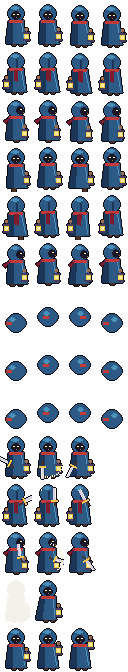
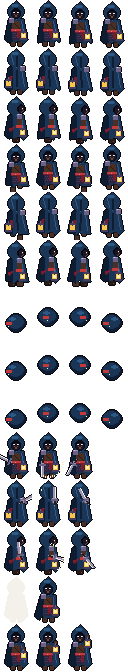
Shadowfall C2: Lanternbearer to the concept: side sheet (shoulder plate, lit face), top-down sheet redrawn (hood, torn cloak, mail, sash, steel pauldron, belt lantern), 128x160 portrait on the title and pause JOURNEY tab

diff --git a/shadowfall/art/src/make_hero.py b/shadowfall/art/src/make_hero.py
@@ -4,7 +4,7 @@ on the sword arm, a blood-red sash, muddy boots, and an iron-caged lantern on th
 screen; it swings). Side sheet 48x64 (caves, faces right) and top-down sheet 32x48 (the realm). Original art."""
 import math
 
-from sfart import Sheet, circle, ellipse, flash, line, outline, poly, poof, px, rect, surf
+from sfart import Sheet, circle, ellipse, flash, line, outline, poly, poof, px, rect, save_png, surf
 
 CLOAK = ("water0", "water1", "water2")  # shadow, base, light: deep midnight blue
 SASH = ("ember1", "ember2")
@@ -124,8 +124,9 @@ def side(bob=0, front=(3, 0), back=(-3, 0), sway=0, scarf=0, hand=(9, 38), lamp=
     ellipse(s, "ink1", cx + 3, hy + 8, 6, 8)
     px(s, "ink6", cx + 5, hy + 9)
     px(s, "ink7", cx + 6, hy + 9)
-    px(s, SKIN[0], cx + 7, hy + 12)
-    px(s, SKIN[0], cx + 6, hy + 14)
+    for fx, fy in ((6, 10), (7, 11), (6, 11), (7, 12), (6, 13), (5, 14)):
+        px(s, SKIN[0], cx + fx, hy + fy)
+    px(s, SKIN[1], cx + 7, hy + 10)
     px(s, CLOAK[2], cx - 2, hy + 15)                   # cloak clasp
     # the sword arm: steel pauldron, vambrace, gloved hand
     sh = (cx + 4, top + 6)
@@ -140,10 +141,14 @@ def side(bob=0, front=(3, 0), back=(-3, 0), sway=0, scarf=0, hand=(9, 38), lamp=
     line(s, STEEL[1], el, (hx, hy2), 4)
     line(s, STEEL[2], (el[0] + 1, el[1] - 1), (hx + 1, hy2 - 1))
     rect(s, LEATHER[1], hx - 1, hy2 - 1, 3, 3)
-    ellipse(s, STEEL[0], sh[0] - 4, sh[1] - 3, 8, 7)
-    ellipse(s, STEEL[1], sh[0] - 3, sh[1] - 3, 6, 4)
-    px(s, STEEL[2], sh[0] - 1, sh[1] - 2)
-    px(s, STEEL[2], sh[0], sh[1] - 2)
+    # pauldron: a flat curved shoulder plate capping the arm, two lames below
+    poly(s, STEEL[0], [(sh[0] - 4, sh[1] - 1), (sh[0] - 2, sh[1] - 4), (sh[0] + 2, sh[1] - 4), (sh[0] + 4, sh[1] - 2),
+                       (sh[0] + 4, sh[1] + 1), (sh[0] - 4, sh[1] + 1)])
+    line(s, STEEL[1], (sh[0] - 2, sh[1] - 3), (sh[0] + 2, sh[1] - 3))
+    line(s, STEEL[2], (sh[0] - 1, sh[1] - 3), (sh[0] + 1, sh[1] - 3))
+    line(s, STEEL[1], (sh[0] - 3, sh[1] - 1), (sh[0] + 3, sh[1] - 1))
+    line(s, STEEL[0], (sh[0] - 3, sh[1] + 2), (sh[0] + 3, sh[1] + 2))
+    px(s, STEEL[2], sh[0] + 3, sh[1] - 2)
     if lamp_hand:
         lantern(s, hx, hy2 + 1)
     if sword_ang is not None:
@@ -211,56 +216,91 @@ def lantern_only():
 def top(d, step=0, bob=0, sway=0, hand=0, sword_ang=None, arc=None, roll=None, lamp_up=0):
     s = surf(32, 48)
     cx = 16
-    if roll is not None:  # a tumbling cloak ball
+    if roll is not None:  # a tumbling cloak ball, the lantern glinting as it turns
         y = 26 - [0, 6, 6, 0][roll]
-        ellipse(s, CLOAK[1], 6, y, 20, 18)
-        ellipse(s, CLOAK[2], 9 + roll * 2 % 8, y + 3, 7, 5)
-        rect(s, SCARF[1], 6 + (roll * 5) % 14, y + 8, 6, 3)
+        ellipse(s, CLOAK[0], 6, y, 20, 18)
+        ellipse(s, CLOAK[1], 7, y + 1, 17, 14)
+        ellipse(s, CLOAK[2], 9 + roll * 2 % 8, y + 3, 7, 4)
+        rect(s, SASH[1], 6 + (roll * 5) % 14, y + 8, 6, 3)
+        px(s, "light1", 8 + (roll * 7) % 16, y + 12)
         return outline(s)
-    feet = (step, -step)
-    # feet
-    for i, fx in enumerate((-4, 3)):
-        if d != "side":
-            rect(s, BOOT[1], cx + fx, 42 + bob + (feet[i] if d != "up" else -feet[i]), 4, 4)
+    t, h = 19 + bob, 42 + bob
+    # boots under the cloak hem
+    for i, fx in enumerate((-5, 2)):
+        st = step if i == 0 else -step
+        if d == "side":
+            rect(s, BOOT[1 - i], cx - 3 + st * 2, 42 + bob, 6, 4)
+            px(s, "earth2", cx + 1 + st * 2, 44 + bob)
         else:
-            rect(s, BOOT[i], cx - 2 + feet[i] * 2, 43 + bob, 5, 3)
-    # cloak body
-    t, h = 20 + bob, 43 + bob
-    poly(s, CLOAK[1], [(cx - 7, t), (cx + 7, t), (cx + 10 + sway, h), (cx - 10 + sway, h)])
-    poly(s, CLOAK[0], [(cx - 7, t), (cx - 3, t), (cx - 4 + sway, h), (cx - 10 + sway, h)])
-    line(s, CLOAK[2], (cx + 5, t + 2), (cx + 8 + sway, h - 2), 1)
-    # head / hood
-    hy = 5 + bob
+            fy = 41 + bob + (st if d == "down" else -st)
+            rect(s, BOOT[1], cx + fx, fy, 4, 5)
+            rect(s, BOOT[0], cx + fx, fy, 4, 1)
+    # the long torn cloak
+    hem = torn(cx - 11 + sway, cx + 11 + sway, h - 3, 6, 3, seed=step + sway)
+    poly(s, CLOAK[1], [(cx - 7, t), (cx + 7, t)] + hem[::-1])
+    poly(s, CLOAK[0], [(cx - 7, t), (cx - 4, t)] + [(x, y) for x, y in hem[:3]][::-1])
+    line(s, CLOAK[2], (cx + 5, t + 2), (cx + 8 + sway, h - 4))
+    if d == "down":  # the cloak open at the front: jerkin, mail, sash, the lantern on the hip
+        poly(s, MAIL[0], [(cx - 4, t + 2), (cx + 4, t + 2)] + torn(cx + 4, cx - 4, h - 4, 3, 2))
+        for y in range(t + 10, h - 3, 2):
+            for x in range(cx - 3 + (y // 2) % 2, cx + 4, 2):
+                px(s, MAIL[1], x, y)
+        rect(s, LEATHER[1], cx - 4, t + 2, 8, 8)
+        line(s, LEATHER[0], (cx - 4, t + 2), (cx + 3, t + 9))
+        rect(s, SASH[1], cx - 5, t + 10, 10, 3)
+        rect(s, SASH[0], cx - 5, t + 12, 10, 1)
+        poly(s, SASH[0], [(cx + 1, t + 12), (cx + 3, t + 12), (cx + 4 + sway, t + 18), (cx + 2 + sway, t + 18)])
+        px(s, "ink5", cx - 1, t + 11)
+    elif d == "up":  # the back: hood folds, sash ends
+        line(s, CLOAK[0], (cx, t + 3), (cx + sway, h - 4), 2)
+        poly(s, SASH[0], [(cx - 6, t + 9), (cx - 4, t + 9), (cx - 5 + sway, t + 16), (cx - 7 + sway, t + 15)])
+    else:
+        rect(s, LEATHER[1], cx + 1, t + 3, 5, 9)
+        rect(s, SASH[1], cx, t + 10, 7, 3)
+        poly(s, SASH[0], [(cx - 1, t + 11), (cx - 7 - sway, t + 13), (cx - 6 - sway, t + 16)])
+    # hood: midnight blue, peak, face in shadow with pale eyes
+    hy = 3 + bob
     ellipse(s, CLOAK[1], cx - 8, hy, 16, 17)
-    ellipse(s, CLOAK[2], cx - 5, hy + 1, 8, 4)
+    poly(s, CLOAK[1], [(cx - 3, hy + 1), (cx + 3, hy + 1), (cx, hy - 2)])
+    ellipse(s, CLOAK[2], cx - 5, hy + 1, 8, 3)
     if d == "down":
-        ellipse(s, "ink1", cx - 5, hy + 6, 10, 9)
-        rect(s, "light1", cx - 3, hy + 9, 2, 1)
-        rect(s, "light1", cx + 1, hy + 9, 2, 1)
-        px(s, SKIN[1], cx, hy + 12)
+        ellipse(s, "ink0", cx - 5, hy + 5, 10, 11)
+        ellipse(s, "ink1", cx - 4, hy + 8, 8, 7)
+        px(s, "ink6", cx - 3, hy + 9); px(s, "ink7", cx - 2, hy + 9)
+        px(s, "ink7", cx + 1, hy + 9); px(s, "ink6", cx + 2, hy + 9)
+        for fx, fy in ((-2, 11), (-1, 12), (0, 12), (1, 11), (0, 13), (-1, 13)):
+            px(s, SKIN[0], cx + fx, hy + fy)
     elif d == "side":
-        ellipse(s, "ink1", cx, hy + 5, 8, 9)
-        rect(s, "light1", cx + 4, hy + 8, 2, 1)
-        px(s, SKIN[1], cx + 7, hy + 11)
+        ellipse(s, "ink0", cx + 1, hy + 5, 8, 10)
+        ellipse(s, "ink1", cx + 3, hy + 7, 5, 7)
+        px(s, "ink7", cx + 6, hy + 9)
+        for fx, fy in ((6, 10), (7, 11), (6, 12), (5, 13)):
+            px(s, SKIN[0], cx + fx, hy + fy)
     else:
-        line(s, CLOAK[0], (cx, hy + 6), (cx, hy + 15), 2)
-    # scarf
-    rect(s, SCARF[1], cx - 7, 20 + bob, 14, 3)
-    if d == "up":
-        poly(s, SCARF[0], [(cx - 2, 22 + bob), (cx + 2, 22 + bob), (cx + 1 + sway, 33 + bob), (cx - 2 + sway, 32 + bob)])
-    elif d == "side":
-        poly(s, SCARF[0], [(cx - 6, 21 + bob), (cx - 12 - sway, 24 + bob), (cx - 10 - sway, 27 + bob)])
-    # lantern hand
+        line(s, CLOAK[0], (cx, hy + 5), (cx, hy + 15), 2)
+        line(s, CLOAK[2], (cx - 5, hy + 4), (cx - 3, hy + 13))
+    px(s, CLOAK[2], cx, t)  # clasp
+    # sword shoulder: the steel pauldron, flat plate
+    psx = {"down": cx - 7, "up": cx + 4, "side": cx + 1}[d]
+    rect(s, STEEL[0], psx, t - 1, 5, 4)
+    line(s, STEEL[1], (psx, t - 1), (psx + 4, t - 1))
+    px(s, STEEL[2], psx + 1, t - 1)
+    line(s, STEEL[0], (psx, t + 3), (psx + 4, t + 3))
+    # lantern on the hip (raised in hand for lantern_raise)
     if d == "down":
-        lx, ly = cx + 10, 30 + bob + hand - lamp_up
+        lx, ly = cx + 7, t + 10 + hand - lamp_up
     elif d == "side":
-        lx, ly = cx + 8, 31 + bob + hand - lamp_up
+        lx, ly = cx + 6, t + 11 + hand - lamp_up
     else:
-        lx, ly = cx - 10, 30 + bob + hand - lamp_up
-    rect(s, SKIN[1], lx - 1, ly - 2, 3, 3)
-    lantern(s, lx, ly)
+        lx, ly = cx - 8, t + 10 + hand - lamp_up
+    if lamp_up:
+        rect(s, LEATHER[1], lx - 1, ly - 2, 3, 3)
+    lantern(s, lx, ly, glow=d != "up" or lamp_up > 0)
+    if d == "up" and not lamp_up:
+        px(s, "light0", lx, ly + 6)
     if sword_ang is not None:
-        sx, sy = {"down": (cx - 6, 32), "up": (cx + 6, 22), "side": (cx + 4, 30)}[d]
+        sx, sy = {"down": (cx - 6, 30), "up": (cx + 6, 21), "side": (cx + 4, 28)}[d]
+        rect(s, STEEL[1], sx - 1, sy + bob - 1, 3, 3)
         sword(s, sx, sy + bob, sword_ang, 14)
     s = outline(s)
     if arc:
@@ -290,9 +330,100 @@ def top_sheet():
     sh.save()
 
 
+# --- portrait (128x160): title screen and pause; 3/4 view, the lantern held low on the left ---
+def dither(s, col, x0, y0, x1, y1, step=2):
+    for y in range(y0, y1):
+        for x in range(x0 + (y % step), x1, step):
+            px(s, col, x, y)
+
+
+def portrait():
+    s = surf(128, 160)
+    # cloak over the shoulders, folds falling
+    poly(s, CLOAK[1], [(30, 92), (98, 92), (124, 132), (126, 160), (2, 160), (4, 132)])
+    poly(s, CLOAK[0], [(30, 92), (40, 100), (22, 160), (2, 160), (4, 132)])
+    for a, b in (((20, 120), (12, 160)), ((106, 118), (114, 160)), ((96, 110), (100, 160))):
+        line(s, CLOAK[0], a, b, 2)
+    line(s, CLOAK[2], (100, 100), (122, 136))
+    line(s, CLOAK[2], (30, 98), (16, 130))
+    # chest: chainmail at the collar, leather jerkin, cross strap, blood-red sash
+    poly(s, MAIL[0], [(44, 108), (86, 108), (90, 160), (40, 160)])
+    dither(s, MAIL[1], 44, 108, 90, 124)
+    poly(s, LEATHER[1], [(46, 122), (86, 118), (90, 160), (40, 160)])
+    line(s, LEATHER[2], (84, 120), (88, 158))
+    line(s, LEATHER[0], (46, 124), (88, 152), 4)
+    line(s, LEATHER[2], (48, 124), (88, 150))
+    rect(s, "ink4", 64, 134, 4, 4)
+    rect(s, SASH[1], 38, 150, 56, 7)
+    rect(s, SASH[0], 38, 156, 56, 4)
+    line(s, SASH[0], (50, 151), (60, 156))
+    # hood: midnight blue, tall peak, deep opening
+    ellipse(s, CLOAK[1], 24, 14, 80, 98)
+    poly(s, CLOAK[1], [(46, 22), (58, 2), (72, 18)])
+    poly(s, CLOAK[0], [(24, 60), (30, 100), (44, 112), (40, 70)])
+    line(s, CLOAK[2], (58, 4), (40, 26))
+    line(s, CLOAK[2], (62, 8), (88, 26), 2)
+    line(s, CLOAK[2], (94, 36), (102, 64))
+    line(s, CLOAK[0], (60, 12), (52, 30), 2)
+    ellipse(s, CLOAK[0], 36, 30, 58, 80)
+    ellipse(s, "ink0", 40, 34, 52, 74)
+    # the face, 3/4 to the right, lit low from the lantern; brow in the hood's shadow
+    poly(s, SKIN[0], [(52, 52), (84, 50), (88, 64), (86, 84), (78, 98), (66, 102), (56, 96), (50, 80)])
+    poly(s, SKIN[1], [(74, 60), (84, 58), (86, 70), (82, 86), (76, 82), (78, 68)])
+    poly(s, "earth1", [(50, 78), (56, 96), (66, 102), (60, 86), (54, 72)])
+    dither(s, "earth1", 58, 90, 80, 100)                    # stubble
+    poly(s, "earth1", [(52, 56), (62, 56), (60, 72), (64, 90), (66, 102), (56, 96), (50, 80)])
+    poly(s, "ink1", [(48, 44), (90, 42), (90, 56), (82, 58), (70, 58), (58, 58), (48, 60)])  # hood shadow
+    poly(s, "ink1", [(48, 60), (54, 58), (52, 84), (56, 96), (50, 90)])
+    for ex in (60, 76):                                     # pale eyes
+        rect(s, "ink4", ex - 1, 61, 9, 4)
+        rect(s, "ink6", ex, 62, 7, 2)
+        rect(s, "ink7", ex + 2, 62, 2, 2)
+        line(s, "ink0", (ex - 1, 60), (ex + 7, 59), 2)          # brow
+    line(s, "earth1", (72, 66), (70, 80))                   # nose
+    line(s, SKIN[1], (74, 66), (75, 78))
+    line(s, "earth1", (68, 82), (76, 82))
+    line(s, "earth0", (64, 90), (76, 89))                   # mouth
+    line(s, "earth1", (82, 62), (86, 80))                   # cheekbone
+    # the clasp
+    circle(s, "ink3", 50, 108, 5)
+    circle(s, "ink5", 50, 108, 3)
+    circle(s, "ink3", 50, 108, 1)
+    # steel pauldron on the far shoulder, lames and rivets
+    ellipse(s, STEEL[0], 84, 96, 40, 34)
+    ellipse(s, STEEL[1], 86, 96, 34, 26)
+    ellipse(s, STEEL[0], 88, 108, 34, 18)
+    ellipse(s, STEEL[1], 88, 100, 32, 14)
+    ellipse(s, STEEL[2], 96, 99, 14, 8)
+    px(s, "ink7", 100, 101); px(s, "ink7", 101, 101)
+    for k, y in enumerate((122, 130, 138)):
+        poly(s, STEEL[0], [(88 + k * 2, y), (120 - k, y - 2), (122 - k, y + 6), (90 + k * 2, y + 7)])
+        line(s, STEEL[1], (89 + k * 2, y + 1), (119 - k, y - 1))
+        px(s, "ink3", 92 + k * 2, y + 3)
+        px(s, "ember3", 108, y + 2)                         # rust
+    # the lantern, held low on the left: iron cage, flame, glow on the cloak
+    for y in range(98, 160):
+        for x in range(0, 44):
+            d = ((x - 18) ** 2 + (y - 130) ** 2) ** 0.5
+            if d < 24 and (x + y) % (2 if d < 15 else 4) == 0 and s.get_at((x, y)).a:
+                px(s, "light0" if d < 15 else "ember3", x, y)
+    poly(s, "ink3", [(10, 116), (26, 116), (30, 120), (6, 120)])
+    rect(s, "light0", 8, 120, 20, 22)
+    rect(s, "light1", 12, 124, 12, 14)
+    poly(s, "ink7", [(18, 126), (21, 132), (18, 136), (15, 132)])
+    for bx in (8, 14, 21, 27):
+        line(s, "ink2", (bx, 120), (bx, 141), 2)
+    rect(s, "ink3", 6, 142, 24, 4)
+    line(s, "ink4", (18, 108), (18, 115), 2)
+    for gx, gy in ((32, 116), (36, 124), (34, 136), (4, 104), (38, 108)):
+        px(s, "ember3", gx, gy)
+    return outline(s)
+
+
 def main():
     side_sheet()
     top_sheet()
+    save_png(portrait(), "ui/hero_portrait.png")
 
 
 if __name__ == "__main__":

diff --git a/shadowfall/art/README.md b/shadowfall/art/README.md
@@ -33,6 +33,7 @@ var font: Font = load("res://art/font/body.fnt")
 
 ## Other files
 - `palette.png` (32×1, in index order) and `palette.json` (names `ink0`…`shadow2` → hex): Shadowfall 32. Nothing may use a colour outside it.
+- `ui/hero_portrait.png` (128×160): the Lanternbearer bust from the concept; the title screen (2×) and the pause JOURNEY tab (1×) show it. `make_hero.py` draws it.
 - `gloom_lut.png` (32×4): row = gloom stage 0–3, column = source palette index, and the pixel is the colour it turns into. B3's palette-swap shader reads it. Accents never change.
 - `parallax/<theme>_{far,back,mid,front}.png` (960×540): `far` is opaque and scrolls 0×, `back` 0.25× (`ink1`), `mid` 0.5× (`ink2`), `front` 1.4× (`ink0`, ≤15 % of the screen).
 - `font/body` (5×7 glyphs, 6×10 cell, ASCII 32–126) and `font/num` (3×5 digits and `+ - / : x %`): each is a PNG grid, a JSON and a BMFont `.fnt` that Godot loads as a `Font`. Draw them at a whole-number scale.
